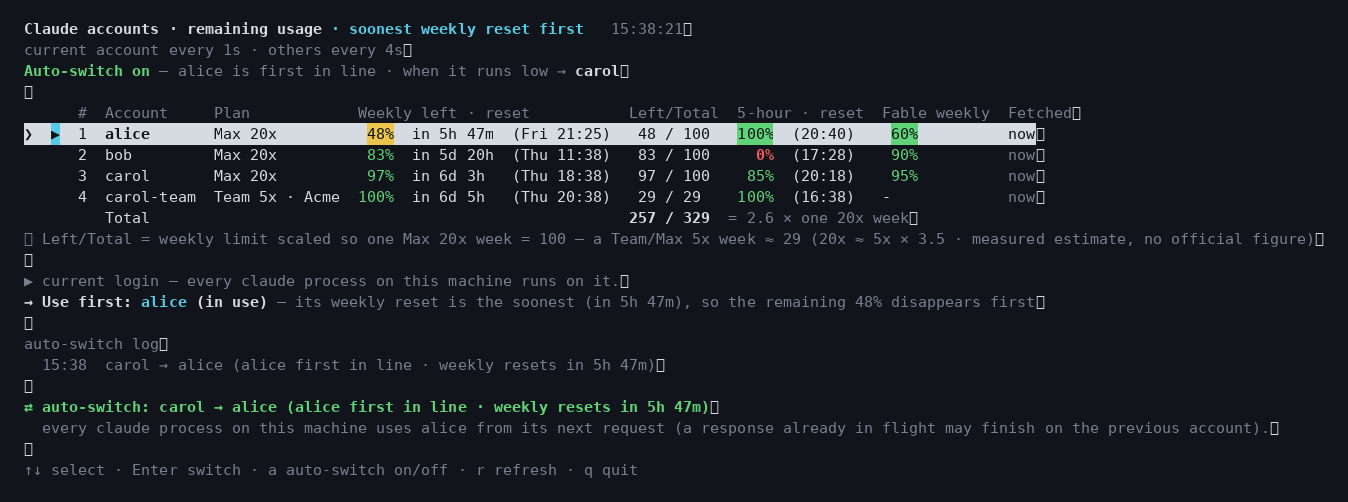
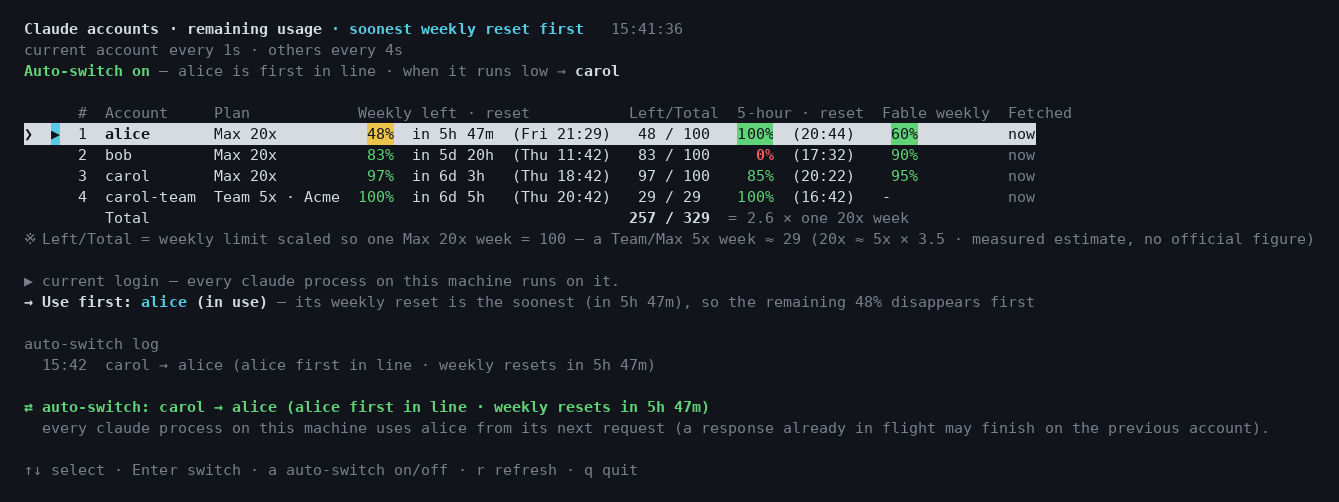
demo screenshot: strip the pty's CR and draw ※ with a fallback font

diff --git a/tools/demo_screenshot.py b/tools/demo_screenshot.py
@@ -70,7 +70,7 @@ def capture(home, base, cols=118, rows=34):
     t.finish()
     end = raw.rfind('\x1b[J')
     start = raw.rfind('\x1b[H', 0, end)
-    return raw[start + 3:end].replace('\x1b[K', '')
+    return raw[start + 3:end].replace('\x1b[K', '').replace('\r', '')  # the pty turns \n into \r\n
 
 
 SGR = re.compile(r'\x1b\[([0-9;]*)m')
@@ -123,7 +123,7 @@ def paint(frame, out_path, size=15):
             for ch in text:
                 if bg:
                     d.rectangle([x, y - 2, x + cw, y + lh - 2], fill=bg)
-                f = fallback if ch in '⚠' else font
+                f = fallback if ch in '⚠※' else font  # glyphs DejaVu Sans Mono lacks
                 d.text((x, y), ch, font=f, fill=fg)
                 x += cw
     img.save(out_path)
